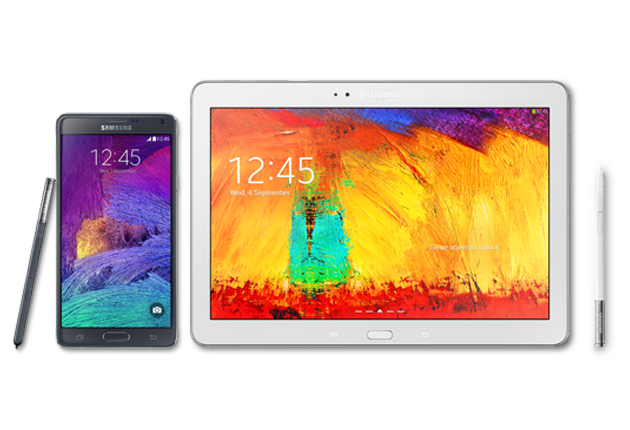
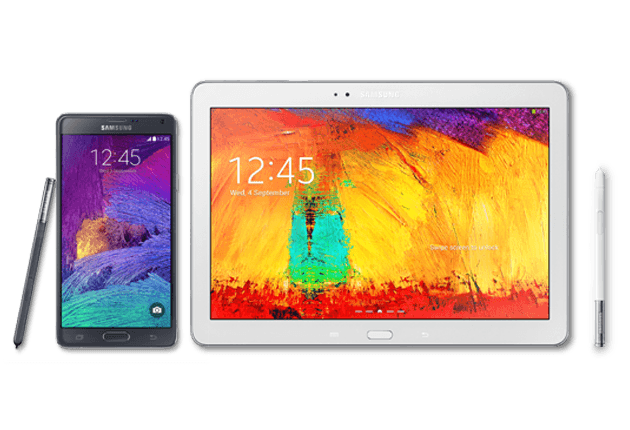
Removes unused .clear _utils class
- Also minifies some images that appeared to be unoptimised

Changed region(s): [[0.4524, 0.6047, 0.573, 0.6953], [0.4524, 0.4535, 0.5429, 0.5442]]

diff --git a/src/scss/framework/_utils.scss b/src/scss/framework/_utils.scss
@@ -1,15 +1,5 @@
 // utility classes only
 
-// .clearfix is specified in _grid.scss
-.clear {
-  clear: both;
-  display: block;
-  overflow: hidden;
-  visibility: hidden;
-  width: 0;
-  height: 0;
-}
-
 // http://www.yuiblog.com/blog/2010/09/27/clearfix-reloaded-overflowhidden-demystified
 .clearfix:before,
 .clearfix:after {

diff --git a/samsung-mobile/css/microsite.css b/samsung-mobile/css/microsite.css
@@ -637,14 +637,6 @@ body {
 .container_25 .pull_24 {
   left: -960px; }
 
-.clear {
-  clear: both;
-  display: block;
-  overflow: hidden;
-  visibility: hidden;
-  width: 0;
-  height: 0; }
-
 .clearfix:before, .header:before, .product:before, .product-slider:before,
 .clearfix:after,
 .header:after,
